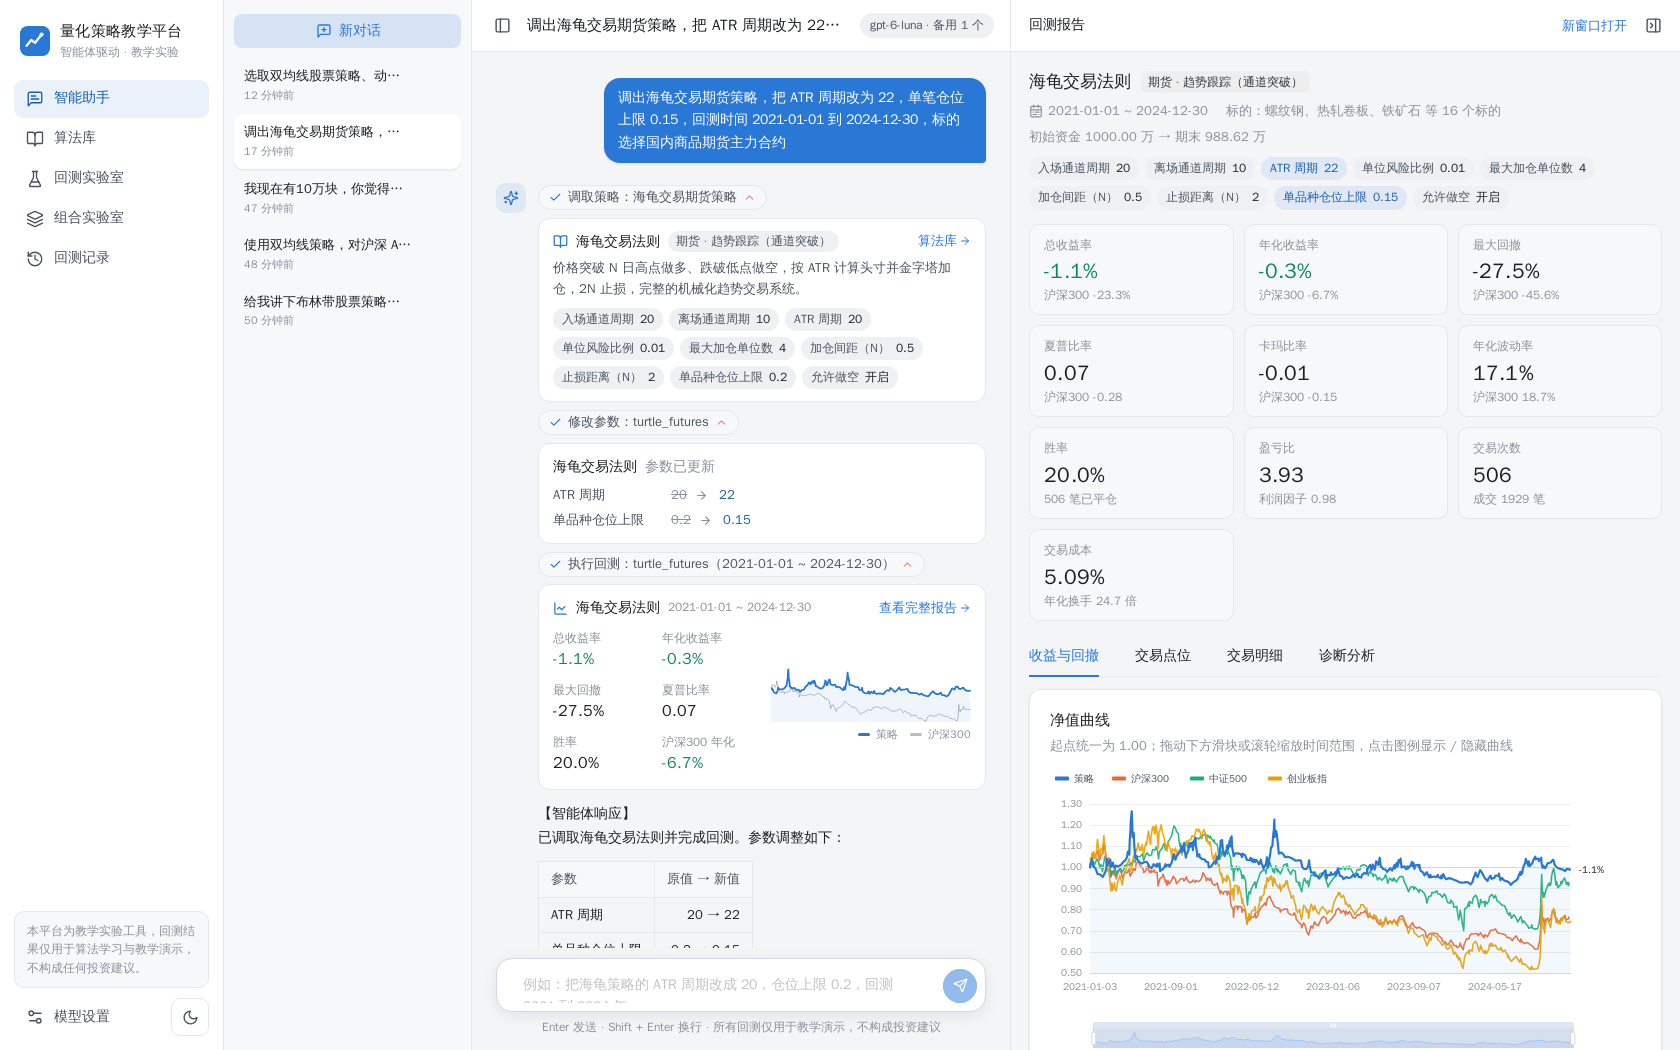
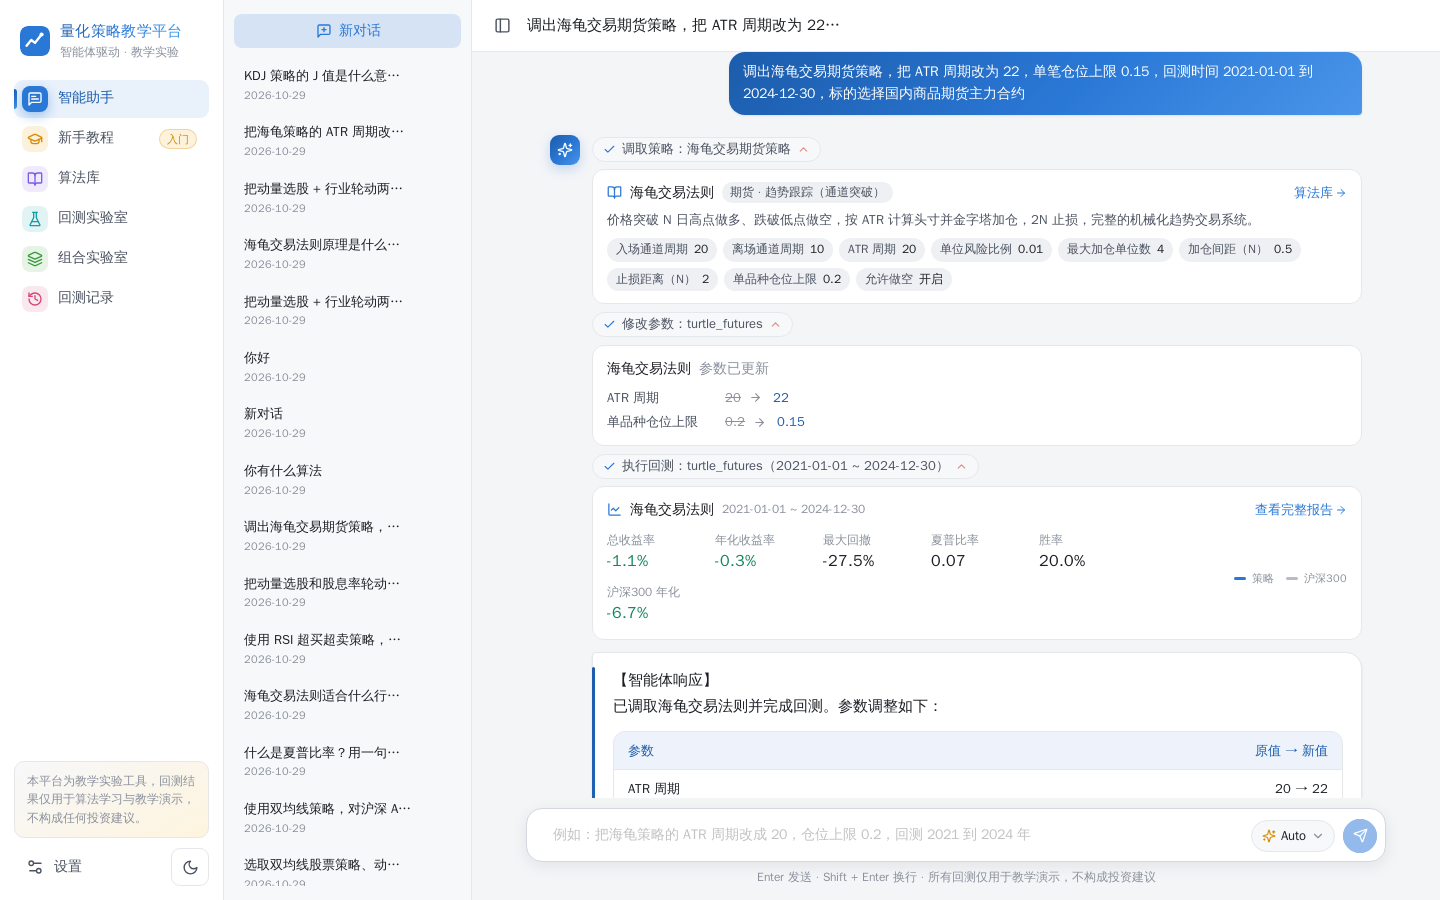
README 换用当前界面的对话、回测报告与组合截图
修改：README 对话截图换成赛题场景 1 的完整工具步骤
修改：README 回测报告截图换成当前界面（侧栏「设置」入口）
修改：README 组合分析截图换成当前界面
文档：对话截图说明改为"每一步实时展示"
样式：截图统一 1440×900 浅色主题
配置：截图取自隔离的数据副本，不触碰正式数据库
测试：截图前确认页面无脚本错误
优化：截图压缩后体积与原图相当
文档：README 界面区与新算法库、教程、班级截图保持同一风格
修改：保持图片路径不变，文档引用无需改动

diff --git a/README.md b/README.md
@@ -6,7 +6,7 @@
 
 赛题来源：深圳海知科技有限公司，原文见 [`赛题文档 -深圳海知科技有限公司.docx`](./赛题文档%20-深圳海知科技有限公司.docx)。
 
-![智能助手：对话调取算法、修改参数、回测，右侧展开完整报告](docs/images/chat.png)
+![智能助手：对话调取算法、修改参数、回测，每一步实时展示](docs/images/chat.png)
 
 ## 功能亮点
 
